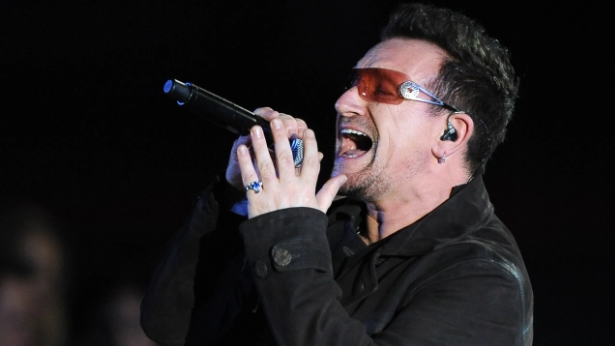
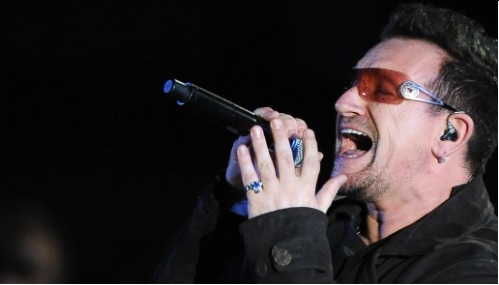
adicionando area dos graficos

diff --git a/Index.html b/Index.html
@@ -14,10 +14,11 @@
     
         <div id="carrousel">
         
-        <img class="selected" src="./img/serena-Willian.png" alt="image1">
-        <img src="./img/Bono-img.png" alt="image2">
-        <img src="./img/gregor.jpg" alt="image3">
-    
+        <img class="selected" src="./img/serena-Willian.png" id="williams"alt="image1">
+        <img src="./img/Bono-img.png" alt="image2" id="Bono">
+        <div id="img-gregor">
+        <img src="./img/gregor.jpg" alt="image3" id="gregor">
+        </div>
     </div>
 
         <div id="top">
@@ -143,9 +144,32 @@
     
     
                 </div>
-    </div>
 
-  </div>
+
+        <div id="data-invest">
+            
+            <DIV id="carroussel1">
+                
+                <h2>VOLUME DE INVESTIMENTO <br>POR ESTÁGIO</h2>
+                <p>Aplicados em startups no Brasil</p>
+                    <div class="description">
+                       Quando destrinchamos os <br>
+                       investimentosdo ano por <br>
+                       estágio, entendemos melhor <br>
+                       como estes se dividem pelo <br>
+                       ecosistema.  
+                       
+                       <p>O investimento eraly stage,</p><br>
+                       que compreende anjo, pré- <br>
+                       seed eseed, recebe a menor <br>
+                       fatia do bolo, em parte por se 
+                    </div>
+            </DIV>
+        </div>
+   
+    </div>
+  
+</div>
 
 
     <script src="script.js"></script>

diff --git a/style.css b/style.css
@@ -61,11 +61,32 @@ body{
     margin-top: -10px;
     
 }
+#williams{
+    height: 95%;
+    width: 102%;
+}
+#image-gregor{
+    background-color: black;
+    width: 4000px;
+    height: 100%;
+}
+#gregor{
+    height: 90%;
+    width: 50%;
+    position: absolute;
+    background-color: black;
+    left: 50%;
+    background-color: black;
+}
+
+#Bono{
+    padding-left: 2%;
+    background-color: black;
+    width: 100%;
+}
 
 #carrousel img{
     position:absolute;
-    width: 102%;
-    height: 100%;
     opacity: 0;
     margin-left: -8px;
 
@@ -270,4 +291,8 @@ body{
     font-size: 230px;
     color: gray;
     opacity: 0.1;
+}
+
+#data-invest{
+    position: absolute;
 }

diff --git a/script.js b/script.js
@@ -1,4 +1,4 @@
-let time = 2000,
+let time = 3000,
    currentImageIndex = 0,
    images = document.querySelectorAll("#carrousel img")
    max = 3;
